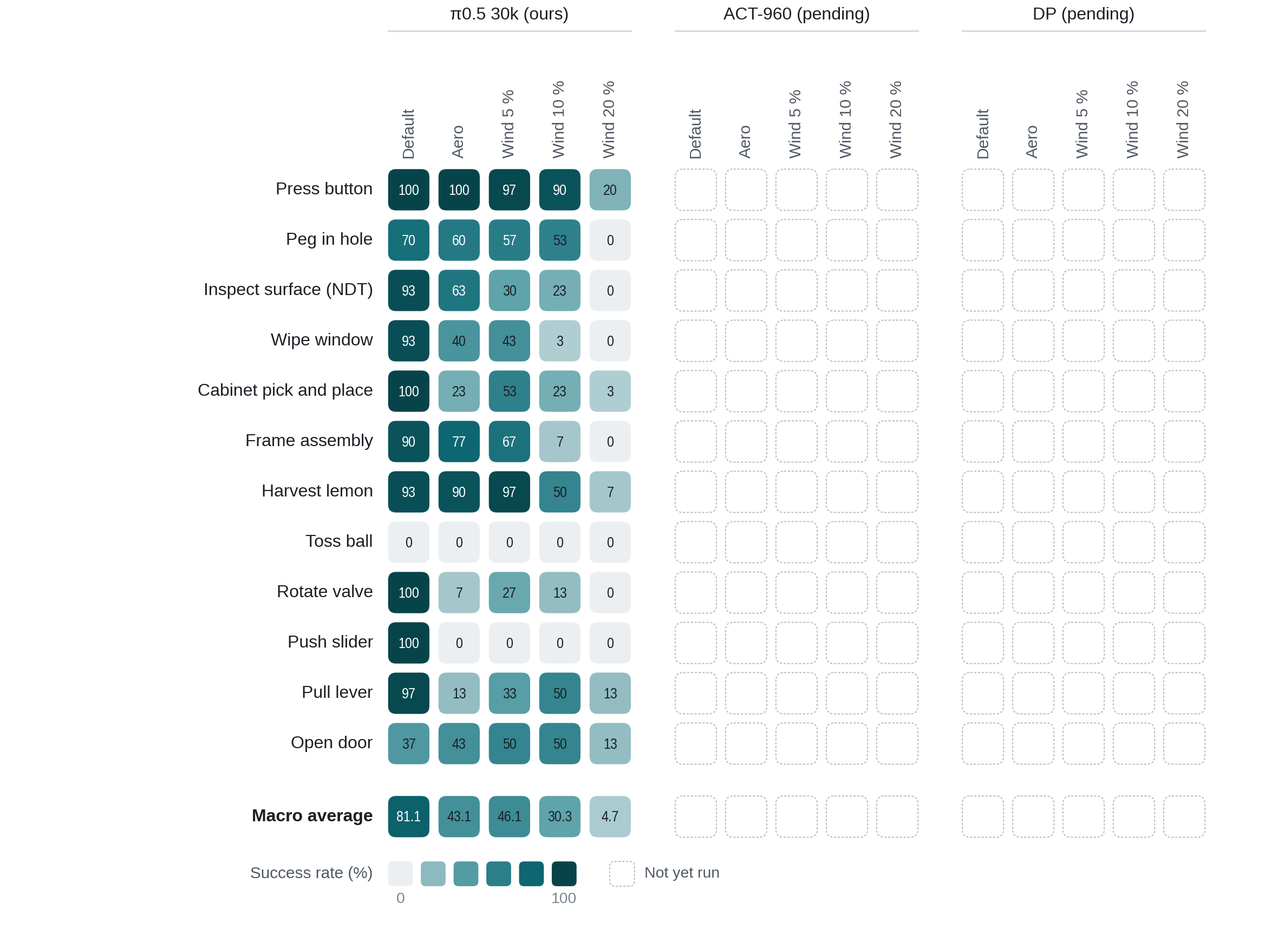
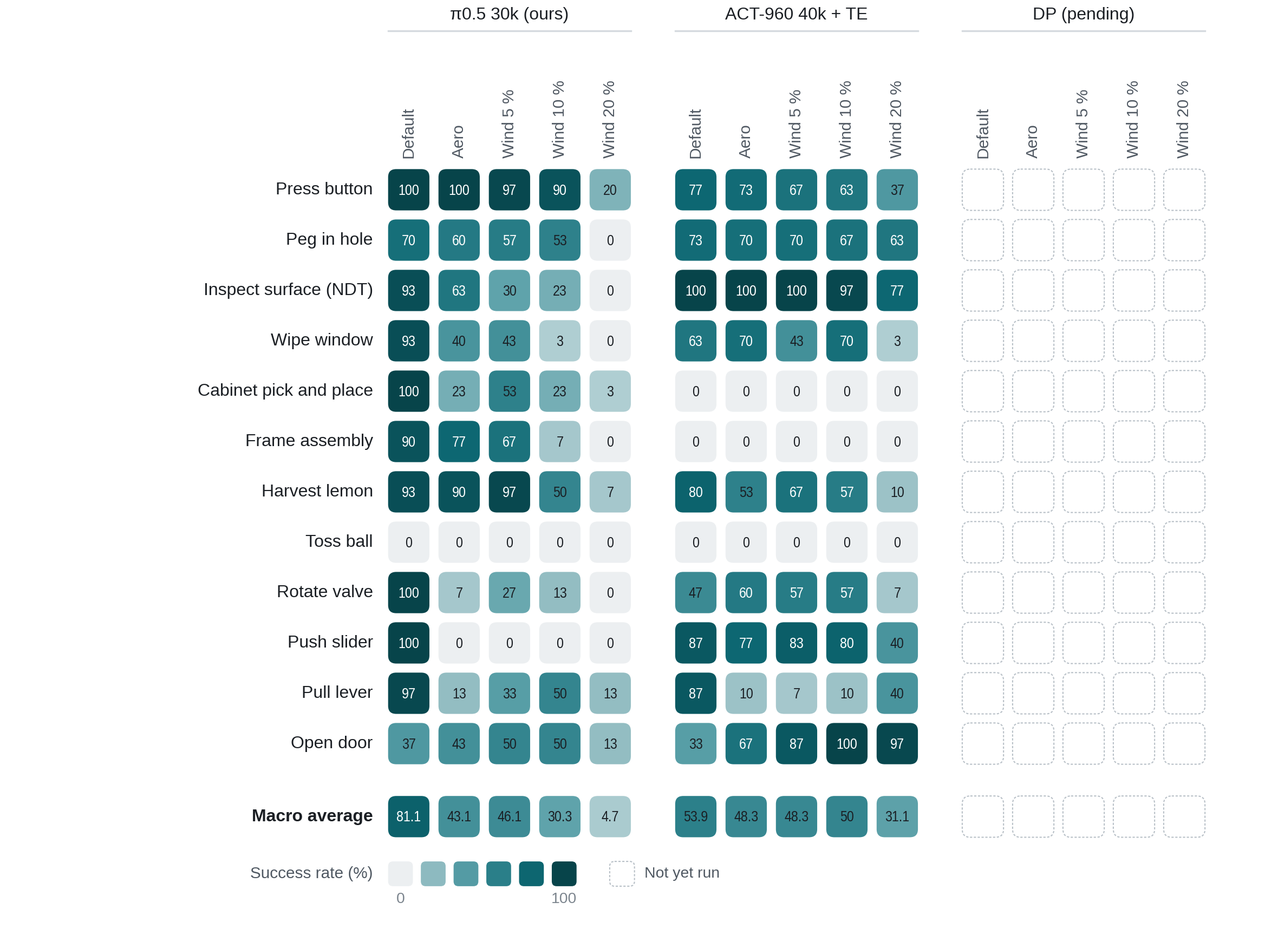
ACT-960 robustness and the RTX 4090 re-run in Part 5
From the ACT branch (pipeline/act/results, 0779b8c): the 40k + TE checkpoints
re-run on an RTX 4090 reach 53.9 % on the default condition (41.1 % on the
RTX PRO 6000 with the same code and seeds), and were evaluated under aero and
5 / 10 / 20 % wind (48.3, 48.3, 50.0, 31.1 %).

- Figures 4A-4D regenerated: 4A adds the RTX 4090 column, 4B shows ACT on
  both machines, 4C and 4D fill in ACT's disturbance sweep. 4E stays on the
  RunPod checkpoint sweep; 4F keeps ACT pending (no per-seed data yet).
- ACT box: Table 5 gains the RTX 4090 column; new Table 6 (robustness) and a
  Machine dependence section with the NDT log comparison; result text, stat
  tiles and the pending note updated. Captions say which GPU each run used.

Claude-Session: https://claude.ai/code/session_0153WRfysCLVQ5FiiBWgKHZW

diff --git a/index.html b/index.html
@@ -588,28 +588,28 @@
     <section id="benchmark-overview">
       <div class="wrap">
         <h2>Results at a glance</h2>
-        <p class="sub">The three evaluated policies side by side, all trained on the same 960 default-condition demonstrations and scored with the same protocol: 30 rollouts per task, rollout <i>i</i> with environment seed <i>i</i> in every cell, each task's own time limit. Model boxes with the per-model details follow below. Diffusion Policy is pending; where a policy has no result yet the figure says so.</p>
+        <p class="sub">The three evaluated policies side by side, all trained on the same 960 default-condition demonstrations and scored with the same protocol: 30 rollouts per task, rollout <i>i</i> with environment seed <i>i</i> in every cell, each task's own time limit. Model boxes with the per-model details follow below. Diffusion Policy is pending; where a policy has no result yet the figure says so. The simulator's per-task results depend on the GPU it runs on: the same ACT checkpoints, code and seeds score 41.1 % on an RTX PRO 6000 and 53.9 % on an RTX 4090, so ACT's best setting is shown for both machines, and its robustness sweep ran entirely on the RTX 4090. π0.5 was evaluated on an RTX 4080.</p>
       </div>
       <div class="wrap wide">
         <figure class="figure">
-          <a href="assets/benchmark/figures/fig4a_default_grid.png" target="_blank" rel="noopener" title="Open the full-size figure"><img src="assets/benchmark/figures/fig4a_default_grid.png" width="2360" height="1678" alt="Grid of success rates: twelve tasks by policy and checkpoint, pi0.5 20k/30k/40k, ACT-960 20k/30k/40k/40k with temporal ensembling, Diffusion Policy pending."></a>
-          <figcaption><b>Figure 4A.</b> Success rate per task on the default condition: π0.5 fully fine-tuned (20k, 30k, 40k steps), ACT-960 (20k, 30k, 40k, and 40k with temporal ensembling), Diffusion Policy pending. Teal intensity is the success rate out of 30 rollouts, grey is 0 %, dashed cells have not been run; the last row is the macro average over the twelve tasks.</figcaption>
+          <a href="assets/benchmark/figures/fig4a_default_grid.png" target="_blank" rel="noopener" title="Open the full-size figure"><img src="assets/benchmark/figures/fig4a_default_grid.png" width="2360" height="1678" alt="Grid of success rates: twelve tasks by policy and checkpoint, pi0.5 20k/30k/40k, ACT-960 20k/30k/40k/40k with temporal ensembling and 40k with temporal ensembling on an RTX 4090, Diffusion Policy pending."></a>
+          <figcaption><b>Figure 4A.</b> Success rate per task on the default condition: π0.5 fully fine-tuned (20k, 30k, 40k steps), ACT-960 (20k, 30k, 40k, and 40k with temporal ensembling, all on an RTX PRO 6000; the separate last column re-runs 40k with temporal ensembling on an RTX 4090 with the same code and seeds), Diffusion Policy pending. Teal intensity is the success rate out of 30 rollouts, grey is 0 %, dashed cells have not been run; the last row is the macro average over the twelve tasks.</figcaption>
         </figure>
         <figure class="figure">
-          <a href="assets/benchmark/figures/fig4b_default_ci.png" target="_blank" rel="noopener" title="Open the full-size figure"><img src="assets/benchmark/figures/fig4b_default_ci.png" width="2360" height="1744" alt="Dot plot with confidence intervals: per-task success of pi0.5 30k and ACT-960 40k with temporal ensembling."></a>
-          <figcaption><b>Figure 4B.</b> The best setting of each policy with Wilson 95 % confidence intervals (n = 30 per task, 360 for the macro average). With 30 rollouts two cells have to differ by about 30 points before their intervals separate, so differences of 10–20 points in the grid are within noise; the macro averages (81.1 vs 41.1 %) are not.</figcaption>
+          <a href="assets/benchmark/figures/fig4b_default_ci.png" target="_blank" rel="noopener" title="Open the full-size figure"><img src="assets/benchmark/figures/fig4b_default_ci.png" width="2360" height="1816" alt="Dot plot with confidence intervals: per-task success of pi0.5 30k and of ACT-960 40k with temporal ensembling on an RTX 4090 and on an RTX PRO 6000."></a>
+          <figcaption><b>Figure 4B.</b> The best setting of each policy with Wilson 95 % confidence intervals (n = 30 per task, 360 for the macro average); ACT-960 40k with temporal ensembling is shown on both machines (filled: RTX 4090, hollow: RTX PRO 6000). With 30 rollouts two cells have to differ by about 30 points before their intervals separate, so differences of 10–20 points in the grid are within noise; the three macro averages (81.1, 53.9 and 41.1 %) are not. The two runs of the same ACT checkpoints separate on NDT (0 vs 100 %), harvest lemon (20 vs 80 %) and rotate valve (97 vs 47 %); see <a href="#act-machine">Machine dependence</a> in the ACT box.</figcaption>
         </figure>
         <figure class="figure">
-          <a href="assets/benchmark/figures/fig4c_robustness_grid.png" target="_blank" rel="noopener" title="Open the full-size figure"><img src="assets/benchmark/figures/fig4c_robustness_grid.png" width="2360" height="1727" alt="Grid of success rates for pi0.5 30k under default physics, aero, and wind at 5, 10 and 20 percent; ACT and Diffusion Policy columns pending."></a>
-          <figcaption><b>Figure 4C.</b> Robustness: the π0.5 30k checkpoint under AM-Bench's disturbance variants (aero: thrust limited to 0–23 N per rotor, ground and wall effects, drag; wind: a constant force of 5, 10 or 20 % of the weight on top of aero), trained on default-condition demonstrations only. ACT-960 and Diffusion Policy pending.</figcaption>
+          <a href="assets/benchmark/figures/fig4c_robustness_grid.png" target="_blank" rel="noopener" title="Open the full-size figure"><img src="assets/benchmark/figures/fig4c_robustness_grid.png" width="2360" height="1727" alt="Grid of success rates for pi0.5 30k and ACT-960 40k with temporal ensembling under default physics, aero, and wind at 5, 10 and 20 percent; Diffusion Policy columns pending."></a>
+          <figcaption><b>Figure 4C.</b> Robustness: π0.5 30k and ACT-960 40k with temporal ensembling under AM-Bench's disturbance variants (aero: thrust limited to 0–23 N per rotor, ground and wall effects, drag; wind: a constant force of 5, 10 or 20 % of the weight on top of aero), both trained on default-condition demonstrations only. All ACT columns ran on the RTX 4090, so its Default column is the 53.9 % run; π0.5 ran on an RTX 4080. Diffusion Policy pending.</figcaption>
         </figure>
         <figure class="figure">
-          <a href="assets/benchmark/figures/fig4d_robustness_lines.png" target="_blank" rel="noopener" title="Open the full-size figure"><img src="assets/benchmark/figures/fig4d_robustness_lines.png" width="2360" height="1920" alt="Small multiples: one line chart per task of success rate against disturbance condition for pi0.5 30k, plus the macro average."></a>
-          <figcaption><b>Figure 4D.</b> The same sweep per task, one panel each at the same scale, plus the macro average: π0.5 30k, trained on default-condition demonstrations only; the shaded conditions were never seen in training. The contact tasks (push slider, rotate valve, pull lever) collapse under aero alone, press button holds to 10 % wind (90 %) and harvest lemon to 5 % (97 %); at 20 % wind the vehicle tips over in 158 of the 360 rollouts. ACT-960 and Diffusion Policy pending.</figcaption>
+          <a href="assets/benchmark/figures/fig4d_robustness_lines.png" target="_blank" rel="noopener" title="Open the full-size figure"><img src="assets/benchmark/figures/fig4d_robustness_lines.png" width="2360" height="1920" alt="Small multiples: one line chart per task of success rate against disturbance condition for pi0.5 30k and ACT-960 40k with temporal ensembling, plus the macro average."></a>
+          <figcaption><b>Figure 4D.</b> The same sweep per task, one panel each at the same scale, plus the macro average: π0.5 30k and ACT-960 40k with temporal ensembling (RTX 4090), both trained on default-condition demonstrations only; the shaded conditions were never seen in training. π0.5 starts higher (81.1 vs 53.9 %) but falls faster: its push slider and rotate valve collapse under aero alone (0 and 7 %), while ACT keeps them at 77 and 60 %. ACT is ahead at 10 % wind (50.0 vs 30.3 %) and at 20 % wind (31.1 vs 4.7 %, higher on nine of the twelve tasks), outside the macro intervals; under aero and 5 % wind the two are within noise. Both lose pull lever under aero (13 and 10 %). ACT's open door rises from 33 to 100 % with the wind, which always blows along +x and probably pushes the vehicle toward the door; a −x control has not been run. For π0.5 the wind tips the vehicle over in 158 of the 360 rollouts at 20 %. Diffusion Policy pending.</figcaption>
         </figure>
         <figure class="figure">
           <a href="assets/benchmark/figures/fig4e_checkpoints.png" target="_blank" rel="noopener" title="Open the full-size figure"><img src="assets/benchmark/figures/fig4e_checkpoints.png" width="2360" height="1920" alt="Small multiples: one panel per task of success rate at 20k, 30k and 40k training steps for pi0.5 and ACT-960, plus the macro average."></a>
-          <figcaption><b>Figure 4E.</b> Checkpoint sensitivity on the default condition, one panel per task plus the macro average: π0.5 and ACT-960 at 20k, 30k and 40k steps; the diamond is ACT-960 40k with temporal ensembling. π0.5's frame assembly goes 0 → 90 → 10 % and open door 13 → 37 → 17 %: both tasks have a long stationary phase in the demonstrations whose end the policy cannot observe, so whether a checkpoint leaves it in time is close to chance. Diffusion Policy pending.</figcaption>
+          <figcaption><b>Figure 4E.</b> Checkpoint sensitivity on the default condition, one panel per task plus the macro average: π0.5 and ACT-960 at 20k, 30k and 40k steps; the diamond is ACT-960 40k with temporal ensembling. π0.5's frame assembly goes 0 → 90 → 10 % and open door 13 → 37 → 17 %: both tasks have a long stationary phase in the demonstrations whose end the policy cannot observe, so whether a checkpoint leaves it in time is close to chance. All ACT points here are RTX PRO 6000 runs; the checkpoint sweep has not been repeated on the RTX 4090. Diffusion Policy pending.</figcaption>
         </figure>
         <figure class="figure">
           <a href="assets/benchmark/figures/fig4f_paired_seeds.png" target="_blank" rel="noopener" title="Open the full-size figure"><img src="assets/benchmark/figures/fig4f_paired_seeds.png" width="2360" height="1440" alt="Stacked bars per task: how many of the 30 shared seeds succeed with both the 30k and 40k pi0.5 checkpoints, with one only, or with neither."></a>
@@ -769,13 +769,13 @@
           <li><b>Model.</b> Action Chunking with Transformers (<a href="https://arxiv.org/abs/2304.13705">Zhao et al., 2023</a>) as implemented in AM-Bench's LeRobot-based trainer, with the paper's hyperparameters (its Table 8a): ResNet-18 backbone pretrained on ImageNet, transformer width 512, 8 heads, feed-forward 3,200, 4 encoder and 1 decoder layers, KL weight 10, a chunk of 16 actions of which the first 8 are executed, one observation step. Inputs are the end-effector and body cameras at 384 × 384 (the same two views as our π0.5; AM-Bench's own ACT sees the end-effector camera only) and the 8-D proprioceptive state (end-effector position and quaternion, gripper width). Actions are 8-D end-effector targets relative to the current pose at 20 Hz, the representation π0.5 uses. One policy per task: twelve single-task models, not one multi-task model.</li>
           <li><b>Data.</b> The same 960 default-condition demonstrations as π0.5 (12 tasks × 80), exported per task to LeRobot v3 with lossless PNG frames (the recordings are AV1; the evaluator renders uncompressed), ImageNet image statistics and mean / standard-deviation normalisation of state and action.</li>
           <li><b>Training.</b> AdamW, learning rate 10<sup>−5</sup> held constant for the transformer and the backbone, weight decay 10<sup>−4</sup>, batch 8, seed 1000, 20,000 steps with a checkpoint every 5,000, run on RunPod. The runs were then resumed exactly to 40,000 steps (optimizer moments, RNG state and step counter restored, constant learning rate), so 20k + 20k is one 40k run. 20k steps at batch 8 are about 8 epochs over 80 demonstrations; at 40k the short tasks have seen 22–25 epochs, frame assembly 7.6, the cabinet about 8.7 and lemon 13.8. (An ACT-4800 variant trained on all five conditions × 80 demonstrations to 20k steps, 1.5 epochs, is undertrained and not reported.)</li>
-          <li><b>Protocol.</b> Identical to π0.5: AM-Bench's evaluator and success checks, default physics, 30 rollouts per task, rollout <i>i</i> with environment seed <i>i</i>, each task's own time limit, 20 Hz, one environment at a time, headless. Evaluation ran on an RTX PRO 6000 (Isaac Sim 5.1.0, Isaac Lab 2.3.2, LeRobot 0.4.4, eight environments in parallel); the cabinet task ran as three shards of ten seeds, which gives the same seed set as one run of thirty.</li>
-          <li><b>Result.</b> 20k, 30k and 40k steps reach 27.5, 23.6 and 28.6 % macro success (99, 85 and 103 of 360). Temporal ensembling at inference (below) lifts the 40k checkpoints to 41.1 % (148 of 360) without retraining. NDT, frame assembly and toss ball are never solved; press button, push slider and peg in hole sit at 43–67 % whichever checkpoint is used; the long cabinet task is at 0–13 %.</li>
+          <li><b>Protocol.</b> Identical to π0.5: AM-Bench's evaluator and success checks, default physics, 30 rollouts per task, rollout <i>i</i> with environment seed <i>i</i>, each task's own time limit, 20 Hz, one environment at a time, headless. Evaluation ran on an RTX PRO 6000 (Isaac Sim 5.1.0, Isaac Lab 2.3.2, LeRobot 0.4.4, eight environments in parallel); the cabinet task ran as three shards of ten seeds, which gives the same seed set as one run of thirty. The 40k checkpoints with temporal ensembling were then evaluated again on an RTX 4090 with the same code, arguments and seeds, under default physics and under all four disturbance conditions.</li>
+          <li><b>Result.</b> On the RTX PRO 6000, 20k, 30k and 40k steps reach 27.5, 23.6 and 28.6 % macro success (99, 85 and 103 of 360), and temporal ensembling at inference (below) lifts the 40k checkpoints to 41.1 % (148 of 360) without retraining. The same 40k + TE checkpoints reach 53.9 % (194 of 360) on the RTX 4090: NDT goes from 0 to 100 % and harvest lemon from 20 to 80 %, while rotate valve falls from 97 to 47 % (see <a href="#act-machine">Machine dependence</a>). On both machines frame assembly, toss ball and the cabinet stay at 0 % with ensembling. Under the disturbances ACT degrades far less than π0.5 and is ahead of it at 10 and 20 % wind.</li>
         </ul>
         <div class="stats">
-          <div class="stat"><b>41.1 %</b><span>macro success, 40k checkpoints with temporal ensembling</span></div>
-          <div class="stat"><b>28.6 %</b><span>40k with AM-Bench's default execution (8 steps open-loop)</span></div>
-          <div class="stat"><b>12</b><span>single-task policies, 20k → 40k steps each</span></div>
+          <div class="stat"><b>53.9 %</b><span>macro success, 40k + temporal ensembling, RTX 4090</span></div>
+          <div class="stat"><b>41.1 %</b><span>same checkpoints, code and seeds on an RTX PRO 6000</span></div>
+          <div class="stat"><b>31.1 %</b><span>at 20 % wind (RTX 4090), against 4.7 % for π0.5 30k</span></div>
         </div>
       </div>
     </section>
@@ -785,25 +785,25 @@
         <h2>Success rate per task</h2>
         <div class="table-wrap">
           <table class="rates">
-            <thead><tr><th scope="col">Task</th><th scope="col">ACT-960, 20k</th><th scope="col">ACT-960, 30k</th><th scope="col">ACT-960, 40k</th><th scope="col">ACT-960, 40k + TE</th><th scope="col">π0.5, 30k (Model 1)</th></tr></thead>
+            <thead><tr><th scope="col">Task</th><th scope="col">ACT-960, 20k</th><th scope="col">ACT-960, 30k</th><th scope="col">ACT-960, 40k</th><th scope="col">ACT-960, 40k + TE</th><th scope="col">ACT-960, 40k + TE<br>(RTX 4090)</th><th scope="col">π0.5, 30k (Model 1)</th></tr></thead>
             <tbody>
-              <tr><th scope="row">Press button</th><td>67</td><td>53</td><td>67</td><td>67</td><td>100</td></tr>
-              <tr><th scope="row">Peg in hole</th><td>47</td><td>53</td><td>43</td><td>53</td><td>70</td></tr>
-              <tr><th scope="row">Inspect surface (NDT)</th><td>0</td><td>0</td><td>0</td><td>0</td><td>93</td></tr>
-              <tr><th scope="row">Wipe window</th><td>43</td><td>3</td><td>20</td><td>63</td><td>93</td></tr>
-              <tr><th scope="row">Cabinet pick and place</th><td>0</td><td>3</td><td>13</td><td>0</td><td>100</td></tr>
-              <tr><th scope="row">Frame assembly</th><td>0</td><td>0</td><td>0</td><td>0</td><td>90</td></tr>
-              <tr><th scope="row">Harvest lemon</th><td>0</td><td>0</td><td>7</td><td>20</td><td>93</td></tr>
-              <tr><th scope="row">Toss ball</th><td>0</td><td>0</td><td>0</td><td>0</td><td>0</td></tr>
-              <tr><th scope="row">Rotate valve</th><td>53</td><td>10</td><td>33</td><td>97</td><td>100</td></tr>
-              <tr><th scope="row">Push slider</th><td>60</td><td>60</td><td>63</td><td>60</td><td>100</td></tr>
-              <tr><th scope="row">Pull lever</th><td>33</td><td>47</td><td>57</td><td>83</td><td>97</td></tr>
-              <tr><th scope="row">Open door</th><td>27</td><td>53</td><td>40</td><td>50</td><td>37</td></tr>
-              <tr><th scope="row"><b>Macro average</b></th><td><b>27.5</b></td><td><b>23.6</b></td><td><b>28.6</b></td><td><b>41.1</b></td><td><b>81.1</b></td></tr>
+              <tr><th scope="row">Press button</th><td>67</td><td>53</td><td>67</td><td>67</td><td>77</td><td>100</td></tr>
+              <tr><th scope="row">Peg in hole</th><td>47</td><td>53</td><td>43</td><td>53</td><td>73</td><td>70</td></tr>
+              <tr><th scope="row">Inspect surface (NDT)</th><td>0</td><td>0</td><td>0</td><td>0</td><td>100</td><td>93</td></tr>
+              <tr><th scope="row">Wipe window</th><td>43</td><td>3</td><td>20</td><td>63</td><td>63</td><td>93</td></tr>
+              <tr><th scope="row">Cabinet pick and place</th><td>0</td><td>3</td><td>13</td><td>0</td><td>0</td><td>100</td></tr>
+              <tr><th scope="row">Frame assembly</th><td>0</td><td>0</td><td>0</td><td>0</td><td>0</td><td>90</td></tr>
+              <tr><th scope="row">Harvest lemon</th><td>0</td><td>0</td><td>7</td><td>20</td><td>80</td><td>93</td></tr>
+              <tr><th scope="row">Toss ball</th><td>0</td><td>0</td><td>0</td><td>0</td><td>0</td><td>0</td></tr>
+              <tr><th scope="row">Rotate valve</th><td>53</td><td>10</td><td>33</td><td>97</td><td>47</td><td>100</td></tr>
+              <tr><th scope="row">Push slider</th><td>60</td><td>60</td><td>63</td><td>60</td><td>87</td><td>100</td></tr>
+              <tr><th scope="row">Pull lever</th><td>33</td><td>47</td><td>57</td><td>83</td><td>87</td><td>97</td></tr>
+              <tr><th scope="row">Open door</th><td>27</td><td>53</td><td>40</td><td>50</td><td>33</td><td>37</td></tr>
+              <tr><th scope="row"><b>Macro average</b></th><td><b>27.5</b></td><td><b>23.6</b></td><td><b>28.6</b></td><td><b>41.1</b></td><td><b>53.9</b></td><td><b>81.1</b></td></tr>
             </tbody>
           </table>
         </div>
-        <p class="note">Table 5. Success rate in percent, 30 rollouts per task, each task's own time limit, the same 30 seeds in every column. TE: temporal ensembling at inference on the same 40k checkpoints. Open door is the one task where ACT (53 % at 30k, 50 % with ensembling) is ahead of π0.5 (37 %); it is also the task where a shorter open-loop horizon helps most (87 % with 4 executed steps per chunk, see below).</p>
+        <p class="note">Table 5. Success rate in percent, 30 rollouts per task, each task's own time limit, the same 30 seeds in every column. TE: temporal ensembling at inference on the same 40k checkpoints. The first four ACT columns ran on an RTX PRO 6000; the fifth re-runs 40k + TE on an RTX 4090 with the same code, arguments and seeds; π0.5 ran on an RTX 4080. Open door is the one task where ACT on the RTX PRO 6000 (53 % at 30k, 50 % with ensembling) is ahead of π0.5 (37 %); it is also the task where a shorter open-loop horizon helps most (87 % with 4 executed steps per chunk, see below). On the RTX 4090, ACT is level with π0.5 on NDT (100 vs 93 %) and peg in hole (73 vs 70 %), within seed noise.</p>
       </div>
     </section>
 
@@ -812,7 +812,7 @@
         <h2>Temporal ensembling</h2>
         <ul class="points">
           <li><b>What changes.</b> Only how the predicted chunks are executed; the weights are the same. AM-Bench's default runs the first 8 actions of each 16-step chunk open-loop and then predicts again. ACT's own inference scheme predicts a full chunk at every control step, decodes each chunk into absolute poses with the pose measured when that chunk was predicted, and executes the weighted mean of every chunk's prediction for the current step, with weights exp(−0.01·<i>i</i>) and <i>i</i> = 0 the oldest chunk. Positions and the gripper are averaged linearly; quaternions are sign-aligned to the oldest prediction, averaged and renormalised.</li>
-          <li><b>Effect.</b> Seed-paired against the default execution on the same 40k checkpoints: rotate valve 33 → 97 % (19 seeds succeed only with ensembling, none only without), wipe window 20 → 63 % (16 vs 3), pull lever 57 → 83 % (8 vs 0), harvest lemon 7 → 20 %; cabinet pick-and-place loses its four successes (0 vs 4). Open door does better with a shorter open-loop horizon instead: 4 executed steps per chunk give 87 % (26 of 30), against 40 % with 8 and 0 % with 1.</li>
+          <li><b>Effect.</b> Seed-paired against the default execution on the same 40k checkpoints, both on the RTX PRO 6000: rotate valve 33 → 97 % (19 seeds succeed only with ensembling, none only without), wipe window 20 → 63 % (16 vs 3), pull lever 57 → 83 % (8 vs 0), harvest lemon 7 → 20 %; cabinet pick-and-place loses its four successes (0 vs 4). Open door does better with a shorter open-loop horizon instead: 4 executed steps per chunk give 87 % (26 of 30), against 40 % with 8 and 0 % with 1.</li>
         </ul>
       </div>
     </section>
@@ -820,7 +820,7 @@
     <section id="act-finetune">
       <div class="wrap">
         <h2>Fine-tuning from 40k</h2>
-        <p class="sub">Three recipes on three tasks with headroom, started from the 40k checkpoints, evaluated with temporal ensembling and seed-paired against 40k + TE. None beats it beyond seed noise, so the reported ACT column stays 40k + TE. These tasks had already seen 22–25 epochs; the least-trained tasks (frame assembly, cabinet, lemon) were not fine-tuned.</p>
+        <p class="sub">Three recipes on three tasks with headroom, started from the 40k checkpoints, evaluated with temporal ensembling on the RTX PRO 6000 and seed-paired against 40k + TE on the same machine. None beats it beyond seed noise, so the reported ACT column stays 40k + TE. These tasks had already seen 22–25 epochs; the least-trained tasks (frame assembly, cabinet, lemon) were not fine-tuned.</p>
         <div class="table-wrap">
           <table class="rates">
             <thead><tr><th scope="col">Recipe (from 40k, batch 32)</th><th scope="col">Peg in hole</th><th scope="col">Rotate valve</th><th scope="col">Wipe window</th></tr></thead>
@@ -835,13 +835,64 @@
       </div>
     </section>
 
+    <section id="act-robustness">
+      <div class="wrap">
+        <h2>Robustness to disturbances</h2>
+        <p class="sub">The 40k checkpoints with temporal ensembling, trained on default-condition demonstrations only, under the same disturbance variants as π0.5 in Table 4: aero (thrust limited to 0–23 N per rotor, ground and wall effects, drag) and aero with a constant +x wind of 5, 10 or 20 % of the weight (3.25, 6.51 and 13.02 N). All five columns ran on the RTX 4090. Same 30 seeds per task in every condition.</p>
+        <div class="table-wrap">
+          <table class="rates">
+            <thead><tr><th scope="col">Task</th><th scope="col">Default</th><th scope="col">Aero</th><th scope="col">Wind 5 %</th><th scope="col">Wind 10 %</th><th scope="col">Wind 20 %</th></tr></thead>
+            <tbody>
+              <tr><th scope="row">Press button</th><td>77</td><td>73</td><td>67</td><td>63</td><td>37</td></tr>
+              <tr><th scope="row">Peg in hole</th><td>73</td><td>70</td><td>70</td><td>67</td><td>63</td></tr>
+              <tr><th scope="row">Inspect surface (NDT)</th><td>100</td><td>100</td><td>100</td><td>97</td><td>77</td></tr>
+              <tr><th scope="row">Wipe window</th><td>63</td><td>70</td><td>43</td><td>70</td><td>3</td></tr>
+              <tr><th scope="row">Cabinet pick and place</th><td>0</td><td>0</td><td>0</td><td>0</td><td>0</td></tr>
+              <tr><th scope="row">Frame assembly</th><td>0</td><td>0</td><td>0</td><td>0</td><td>0</td></tr>
+              <tr><th scope="row">Harvest lemon</th><td>80</td><td>53</td><td>67</td><td>57</td><td>10</td></tr>
+              <tr><th scope="row">Toss ball</th><td>0</td><td>0</td><td>0</td><td>0</td><td>0</td></tr>
+              <tr><th scope="row">Rotate valve</th><td>47</td><td>60</td><td>57</td><td>57</td><td>7</td></tr>
+              <tr><th scope="row">Push slider</th><td>87</td><td>77</td><td>83</td><td>80</td><td>40</td></tr>
+              <tr><th scope="row">Pull lever</th><td>87</td><td>10</td><td>7</td><td>10</td><td>40</td></tr>
+              <tr><th scope="row">Open door</th><td>33</td><td>67</td><td>87</td><td>100</td><td>97</td></tr>
+              <tr><th scope="row"><b>Macro average</b></th><td><b>53.9</b></td><td><b>48.3</b></td><td><b>48.3</b></td><td><b>50.0</b></td><td><b>31.1</b></td></tr>
+            </tbody>
+          </table>
+        </div>
+        <p class="note">Table 6. Success rate in percent, 30 rollouts per task, the task's own time limit in each condition. The average falls from 53.9 % to 48–50 % under aero and 5 or 10 % wind and to 31.1 % at 20 % wind, a much smaller drop than π0.5's (81.1 → 4.7 %, Table 4): at 10 % wind ACT is ahead, 50.0 vs 30.3 %, and at 20 % wind 31.1 vs 4.7 %, both outside the macro intervals; under aero and 5 % wind the two are within noise. NDT (97–100 %), peg in hole (67–70 %), push slider (77–83 %) and rotate valve (57–60 %) hold through 10 % wind, where π0.5 loses push slider and rotate valve under aero alone. Pull lever is the exception: it drops from 87 % to 7–10 % as soon as aero is on, as π0.5's does, and partly recovers to 40 % at 20 % wind. Open door is the only task that improves under disturbance (33 → 67–100 %); the wind always blows along +x, which probably pushes the vehicle toward the door, and a −x control has not been run. Cabinet, frame assembly and toss ball are 0 % in every condition. Two lemon rollouts, one at 5 % and one at 10 % wind, count as successes with half of the subtasks completed. With 30 rollouts the 95 % interval is about ±15–18 points per cell, and π0.5 ran on a different GPU (RTX 4080), so per-task differences between the two policies of that size are not conclusive.</p>
+      </div>
+    </section>
+
+    <section id="act-machine">
+      <div class="wrap">
+        <h2>Machine dependence</h2>
+        <p class="sub">The same checkpoints, code, arguments and seeds give different per-task results on the RTX PRO 6000 (Blackwell, on RunPod) and on the RTX 4090 (Ada). Both machines run Isaac Sim 5.1 with a byte-identical patched evaluator. The two 40k + TE columns of Table 5 are this comparison.</p>
+        <ul class="points">
+          <li><b>Size.</b> The macro average goes from 41.1 % to 53.9 %, and the 95 % intervals of three tasks separate: NDT 0 → 100 %, harvest lemon 20 → 80 % and rotate valve 97 → 47 %. Push slider (60 → 87 %), peg in hole (53 → 73 %) and open door (50 → 33 %) differ by 17–27 points; the other six tasks are within 10 points. The difference goes both ways, so neither machine is simply better.</li>
+          <li><b>What the logs show.</b> For NDT the tracking logs show the simulation behaving differently, not seed noise (seeds 0–9, table below). On the RTX PRO 6000 the base reaches its target to within 0.1–0.6 cm while the end effector stays 3–5 cm off, as if the probe were stuck against the surface. The likely cause is GPU PhysX contact simulation differing between GPU architectures and drivers; this has not been isolated.</li>
+          <li><b>What it means for the tables.</b> Conditions are compared within one machine: Table 6 and the ACT columns of Figures 4C and 4D are all RTX 4090. The 20k, 30k and 40k columns are RTX PRO 6000 only, comparable with each other and with that machine's 40k + TE column. π0.5 was evaluated on an RTX 4080, the same architecture as the RTX 4090; whether its numbers move on another GPU has not been tested.</li>
+        </ul>
+        <div class="table-wrap">
+          <table class="rates">
+            <thead><tr><th scope="col">NDT, default physics, seeds 0–9</th><th scope="col">RTX PRO 6000</th><th scope="col">RTX 4090</th></tr></thead>
+            <tbody>
+              <tr><th scope="row">Outcome</th><td>10 of 10 time out, no subtask completed</td><td>10 of 10 succeed, about 1,300 steps</td></tr>
+              <tr><th scope="row">Thrust saturation rate</th><td>57 %</td><td>7.9 %</td></tr>
+              <tr><th scope="row">Maximum tilt</th><td>0.35 rad</td><td>0.017 rad</td></tr>
+              <tr><th scope="row">Mean end-effector position error</th><td>14.6 cm</td><td>7.4 cm</td></tr>
+            </tbody>
+          </table>
+        </div>
+      </div>
+    </section>
+
     <section id="act-notes">
       <div class="wrap">
         <h2>Notes</h2>
         <ul class="points">
           <li><b>Not AM-Bench's ACT number.</b> The paper's ACT (26.94 % in its Table 10) sees the end-effector camera only and is trained on AM-Bench's own demonstrations with uncompressed images and its own task definitions. ACT-960 uses both cameras, the project's recordings and the Part 2 tasks (open door starts latched and must be opened through its handle), with the paper's hyperparameters. It is the apples-to-apples baseline for our π0.5 column, not a reproduction of the paper's row.</li>
-          <li><b>Pending.</b> The disturbance conditions (aero, wind 5 / 10 / 20 %) are implemented and verified for the ACT evaluator (same switches, wind force and time limits as the dataset) but not yet run: 1,440 rollouts, about 18.5 h with eight environments in parallel. Figures 4C, 4D and 4F mark them as pending.</li>
-          <li><b>Code.</b> <a href="https://github.com/MingtianTan/Aerial_Manipulation_Code/tree/ACT/pipeline/act"><code>pipeline/act/</code></a> on the <code>ACT</code> branch: the per-task export, training and exact resume, the temporal-ensembling patch, the sharded evaluator, the tables and a provenance note.</li>
+          <li><b>Pending.</b> The 20k, 30k and 40k checkpoints without ensembling have not been re-run on the RTX 4090, and ACT's per-seed outcomes for a paired comparison (Figure 4F) are not in the repository yet. Fine-tuning of the least-trained tasks (frame assembly, cabinet, lemon) and a −x wind control for open door have not been run.</li>
+          <li><b>Code.</b> <a href="https://github.com/MingtianTan/Aerial_Manipulation_Code/tree/ACT/pipeline/act"><code>pipeline/act/</code></a> on the <code>ACT</code> branch: the per-task export, training and exact resume, the temporal-ensembling patch, the sharded evaluator, the RTX 4090 launch scripts (<code>eval/iral/</code>), the tables, the per-cell disturbance counts with their builder, and a provenance note.</li>
         </ul>
       </div>
     </section>
